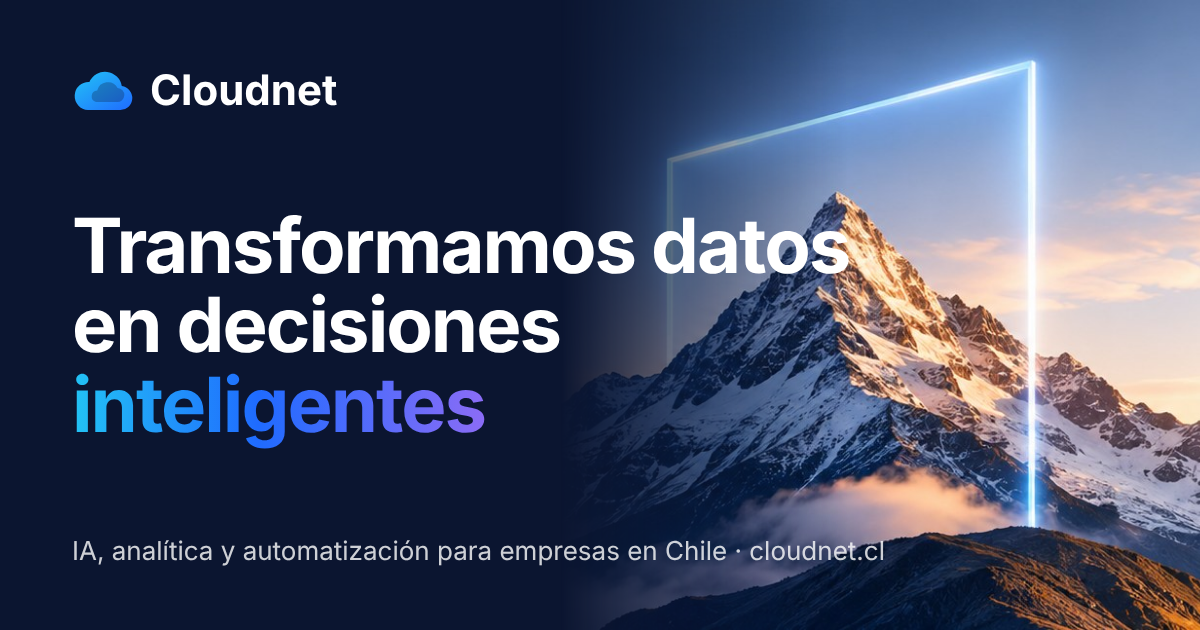
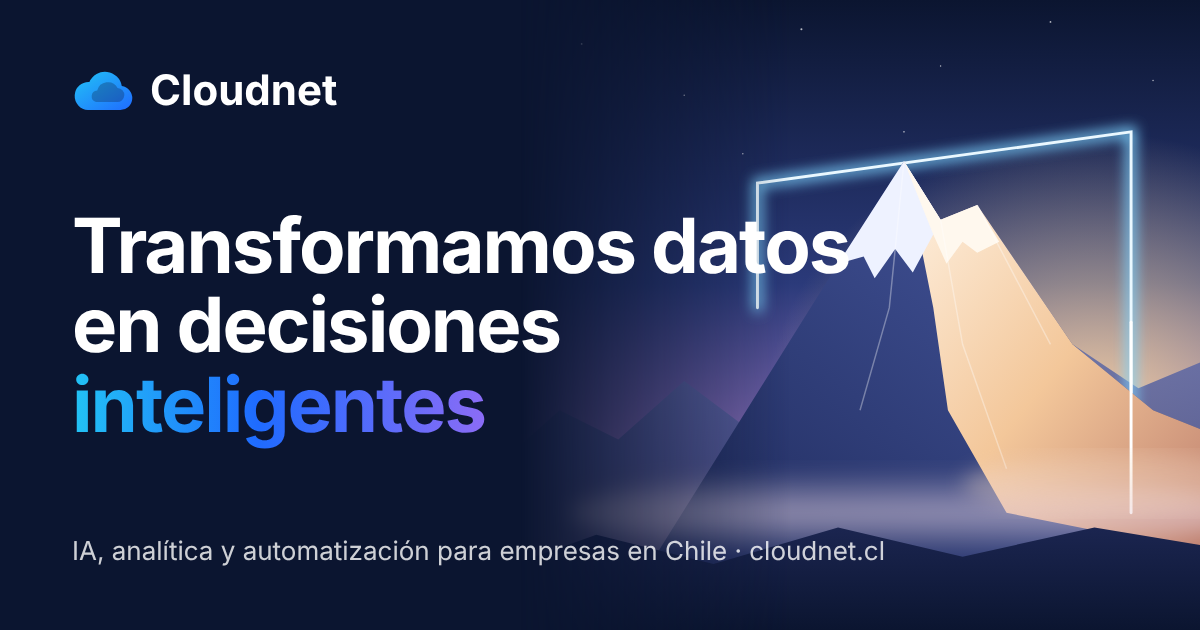
Hero con ilustración original de la cordillera
Claude-Session: https://claude.ai/code/session_01VHTmumsf52HDxTf7CSq2H2

diff --git a/styles.css b/styles.css
@@ -48,7 +48,7 @@ a { color: var(--azul); }
 }
 .stage::before {
   content: ""; position: absolute; inset: 0 0 0 auto; width: min(62%, 980px); z-index: -2;
-  background: url("hero-montana.jpg") center / cover no-repeat;
+  background: url("hero-cordillera.svg") center / cover no-repeat;
   -webkit-mask-image: linear-gradient(90deg, transparent 0%, #000 40%);
   mask-image: linear-gradient(90deg, transparent 0%, #000 40%);
 }
